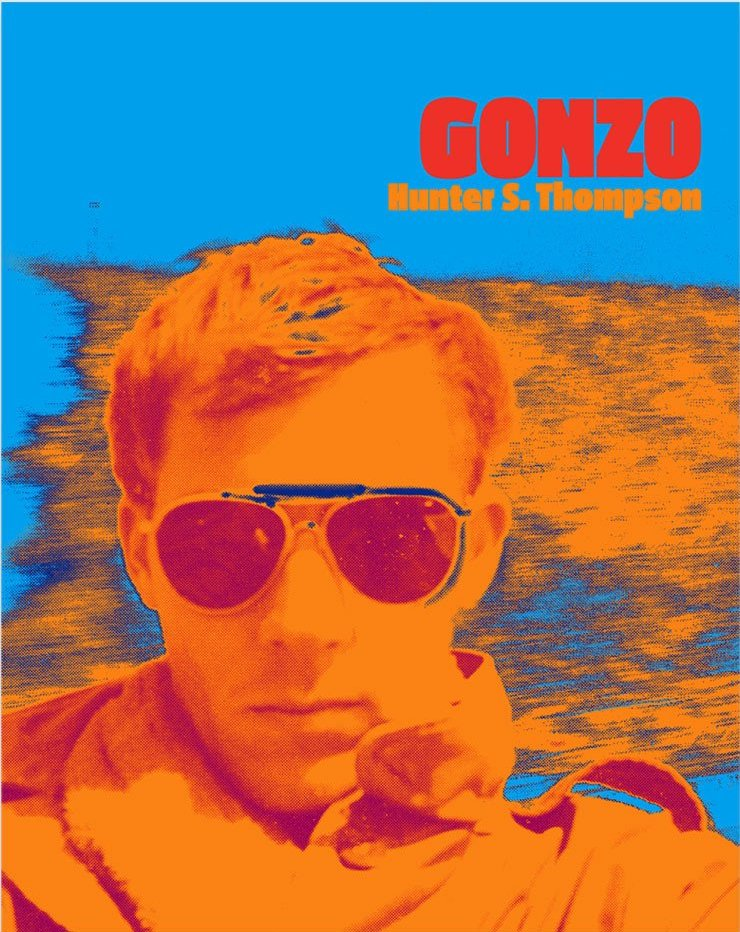
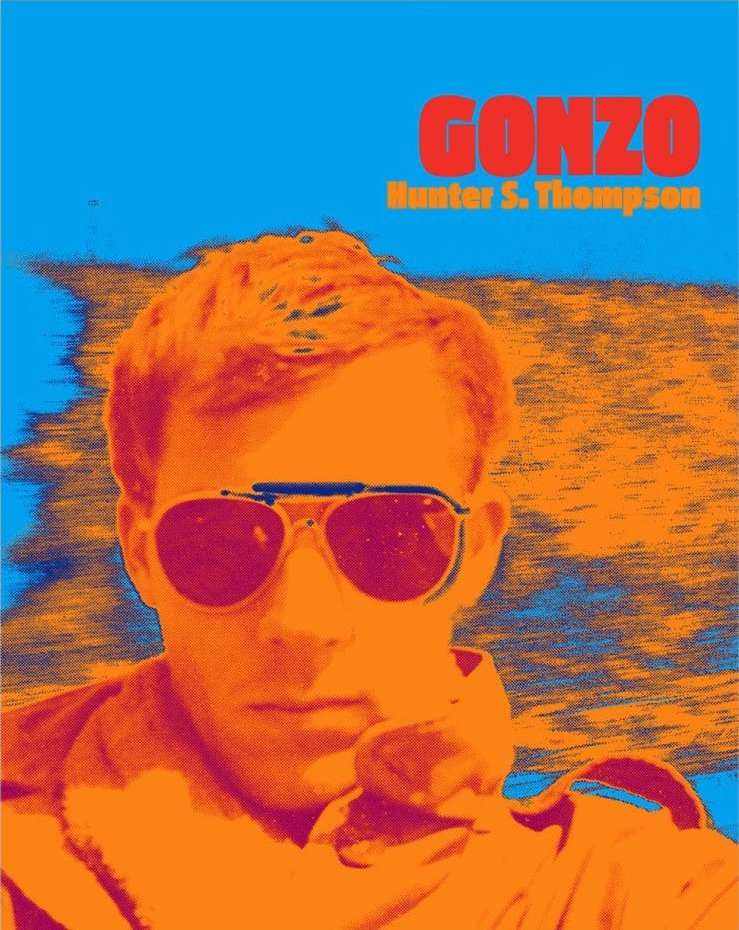
Updates to Index, stylesheet, edited picture
Added more content, changed layout slightly, added more style info. Edited out a white border around photo.

diff --git a/project-3/index.html b/project-3/index.html
@@ -4,13 +4,18 @@
     <meta name="viewport" content="width-device-width, initial-scale=1.0" />
     <meta name="charset" content="utf-8" />
     <link rel="stylesheet" type="text/css" href="./css/style.css" />
-    <link href="https://fonts.googleapis.com/css?family=Kalam" rel="stylesheet">
+    <link href="https://fonts.googleapis.com/css?family=Kalam|Montserrat" rel="stylesheet">
       <title>Fear and Loathing in Las Vegas</title>
   </head>
     <body>
-      <table align="center">
+      <table id="heading-table" align="center">
         <tr>
-          <th><h1 class="nobottom">Hunter S. Thompson</h1>
+          <th>
+            <div class="container">
+              <img id="gonzo-cover" class="imagesize" src="./images/gonzocover.jpg"
+               alt="Cover of Hunter S. Thompson's Book, Gonzo." title="Gonzo Book Cover" />
+            </div>
+                <h1 class="titleheading">Hunter S. Thompson</h1>
                 <h3 class="notop"><u>A Tribute to the Gonzo Reporter</u></h3>
           </th>
         </tr>
@@ -18,12 +23,62 @@
 <br />
       <table align="center">
         <tr>
-          <td><b>
-                    Excerpt from his 1971 article in Rolling Stones magazine
-                    titled<br /> "<em>Fear and Loathing in Las Vegas: A savage journey
-                    to the heart of the American dream</em>"
-              </b></td>
+          <td><b>Excerpt from his 1971 article in Rolling Stones magazine
+                 titled<br /> "<em>Fear and Loathing in Las Vegas: A savage journey
+                 to the heart of the American dream</em>"</b>
+          </td>
         </tr>
       </table>
+<br />
+      <table align="center">
+        <tr>
+          <td id="first-paragraph" class="pagetext">
+            <p><span style="float: left; color: navy; font-size: 35pt; line-height: 0.7; margin: 0.13em 0.1em 0 0;">W</span>
+                        e were somewhere around Barstow on the edge of the
+                               desert when the drugs began to take hold. I remember
+                               saying something like "I feel a bit lightheaded;
+                               maybe you should drive. ..." And suddenly there was
+                               a terrible roar all around us and the sky was full
+                               of what looked like huge bats, all swooping and
+                               screeching and diving around the car, which was going
+                               about 100 miles an hour with the top down to Las Vegas.
+                               And a voice was screaming: "Holy Jesus! What are these
+                               goddamn animals?"</p>
+          </td>
+        </tr>
+      </table>
+<br />
+      <table align="center">
+        <tr>
+          <td id="second-paragraph" class="pagetext">
+                        <p>Then it was quiet again. My attorney had taken his
+                          shirt off and was pouring beer on his chest, to facilitate
+                          the tanning process. "What the hell are you yelling about?"
+                          he muttered, staring up at the sun with his eyes closed and
+                          covered with wraparound Spanish sunglasses. "Never mind," I
+                          said. "It's your turn to drive." I hit the brakes and aimed
+                          the Great Red Shark toward the shoulder of the highway.
+                          No point mentioning those bats, I thought. The poor bastard
+                          will see them soon enough.</p>
+         </td>
+       </tr>
+     </table>
+<br />
+     <table align="center">
+       <tr>
+         <td id="third-paragraph" class="pagetext">
+                      <p>It was almost noon, and we still had more than 100 miles to go.
+                        They would be tough miles. Very soon, I knew, we would both be
+                        completely twisted. But there was no going back, and no time to
+                        rest. We would have to ride it out. Press registration for the fabulous
+                        Mint 400 was already underway, and we had to get there by four to
+                        claim our soundproof suite. A fashionable sporting magazine in New
+                        York had taken care of the reservations, along with this huge red
+                        Chevy convertible we'd just rented off a lot on the Sunset Strip ...
+                        and I was, after all, a professional journalist; so I had an obligation
+                        to cover the story, for good or ill.</p>
+         </td>
+       </tr>
+     </table>
     </body>
 </html>

diff --git a/project-3/css/style.css b/project-3/css/style.css
@@ -14,9 +14,33 @@ th, td {border: 3px solid #EF3028;
         color:  #004d99;
         text-align: center;
         }
-.nobottom {margin-bottom: 0px;
-           }
+.titleheading {margin-top: 6px;
+               margin-bottom: 0px;
+               font-family: 'Kalam', cursive;
+               font-size: 250%;
+               text-border: 2px solid;
+               }
 .notop {margin-top: 0px;
         }
-* {font-family: 'Kalam', cursive;
-   }
+.pagetext {font-family: 'Montserrat', sans-serif;
+           text-align: left;
+           font-size: 120%;
+           line-height: 160%;
+           }
+.container {position: relative;
+            width: 100%;
+            height: 100%;
+            }
+.imagesize {position: relative;
+             top: 0;
+             left: 0;
+             width: 100%;
+             height: 100%;
+             margin-bottom: 0px;
+             }
+.bordered {border: 2px dashed #004d99;
+           }
+p         {margin-left: 5px;
+           margin-right: 5px;
+           margin-top: 5px;
+           margin-bottom: 5px;}
